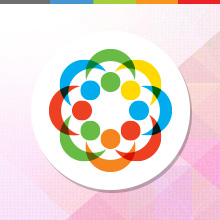
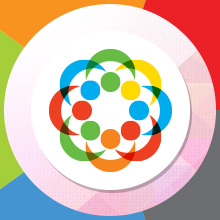
ajusta listagem de comunidades. Closes #16

Changed region(s): [[0.0, 0.0, 1.0, 1.0]]

diff --git a/src/sass/custom/_widgets.scss b/src/sass/custom/_widgets.scss
@@ -30,3 +30,11 @@
     color: $brand-warning;
   }
 }
+
+#group-list {
+  .group-list-widget {
+    .group-list-img {
+      padding: 8px;
+    }
+  }
+}
